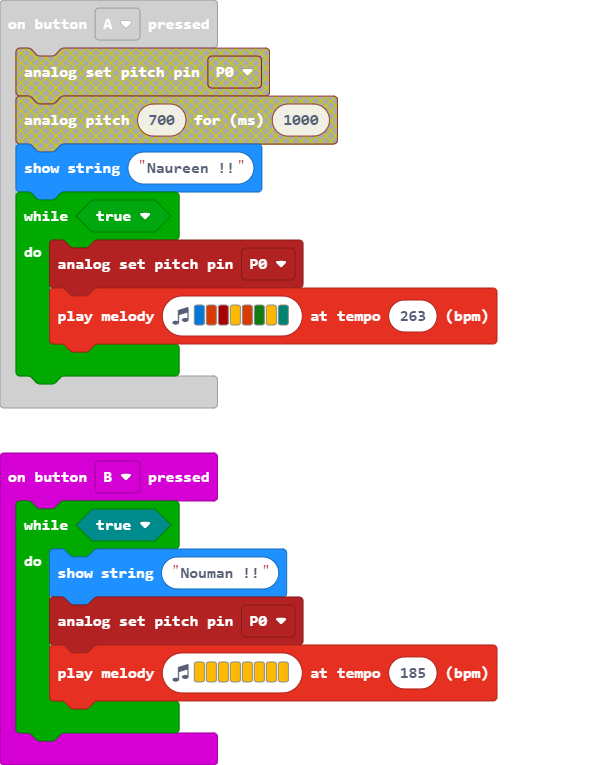
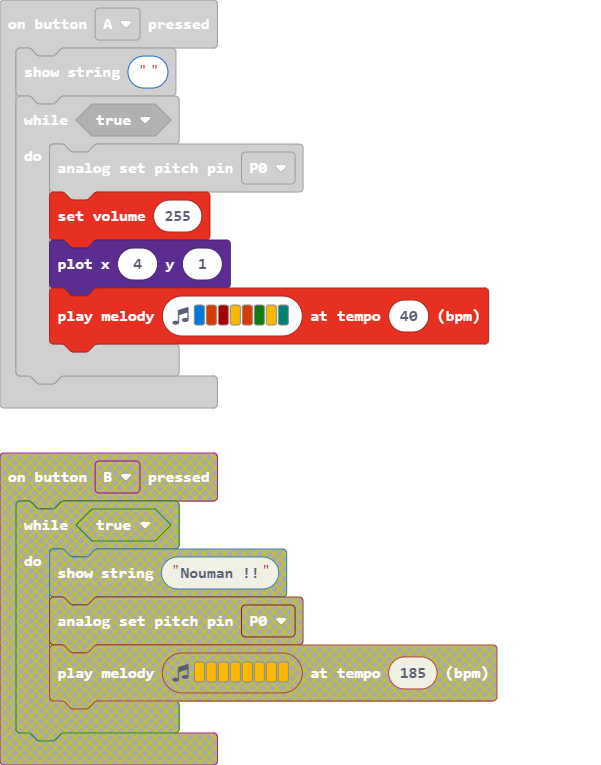
Update main.blocks, main.ts

diff --git a/main.ts b/main.ts
@@ -1,14 +1,9 @@
 input.onButtonPressed(Button.A, function () {
-    basic.showString("Naureen !!")
+    basic.showString("")
     while (true) {
         pins.analogSetPitchPin(AnalogPin.P0)
-        music.playMelody("E B C5 A B G A F ", 263)
-    }
-})
-input.onButtonPressed(Button.B, function () {
-    while (true) {
-        basic.showString("Nouman !!")
-        pins.analogSetPitchPin(AnalogPin.P0)
-        music.playMelody("A A A A A A A A ", 185)
+        music.setVolume(255)
+        led.plot(4, 1)
+        music.playMelody("E B C5 A B G A F ", 40)
     }
 })
